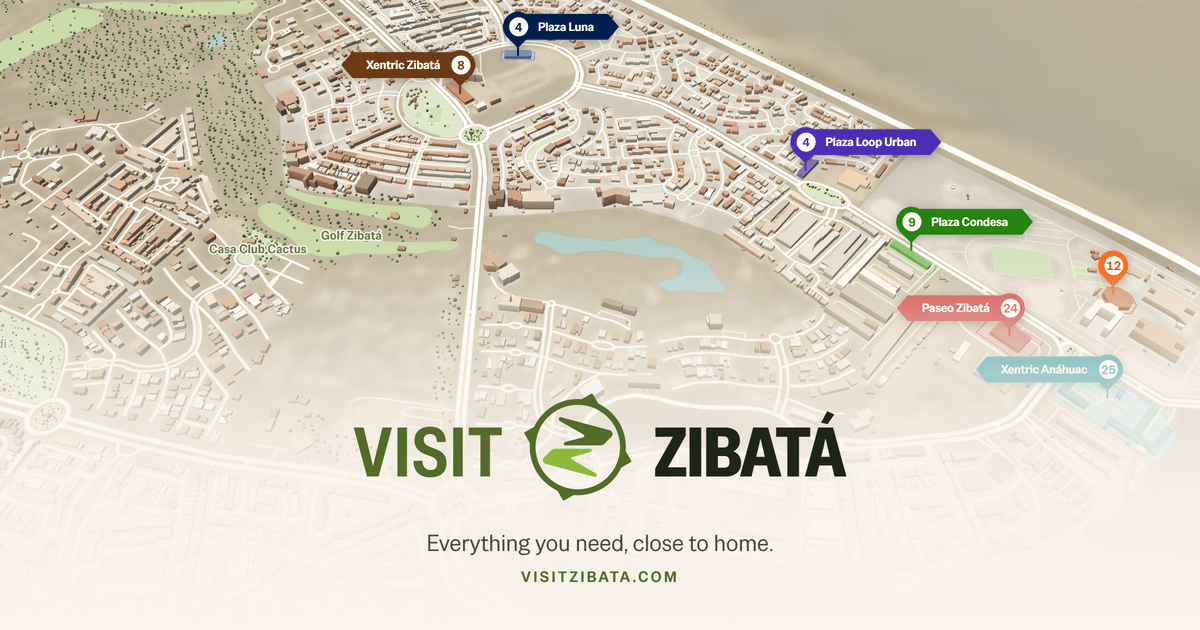
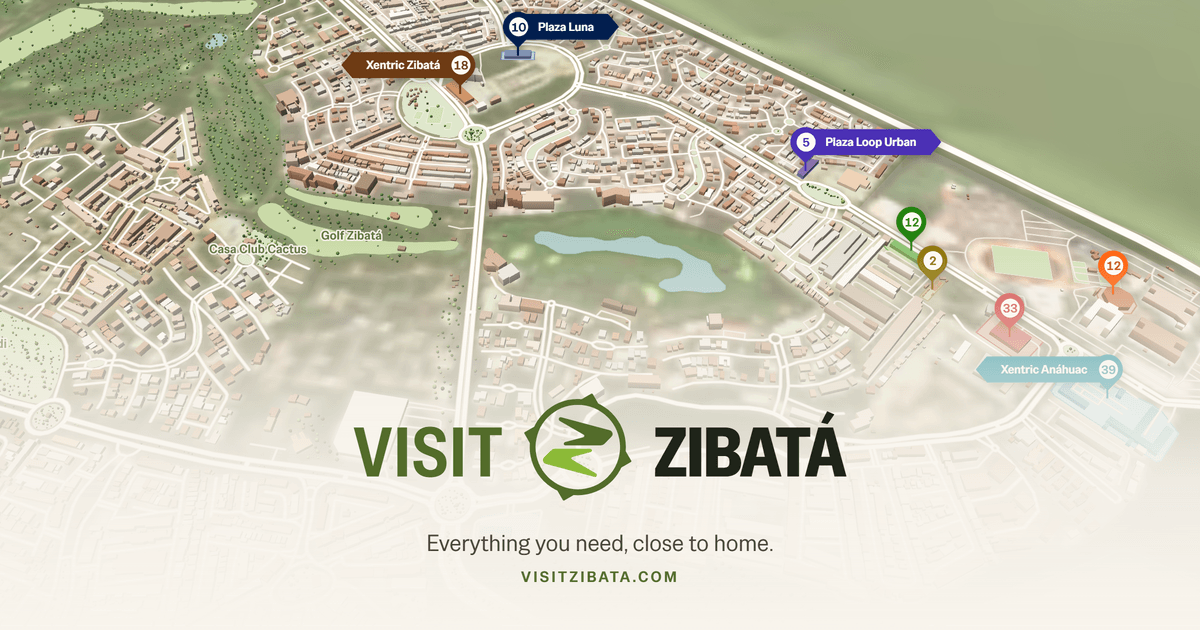
Mapa: suelo verde salvia en vez de arena (#214)
* Mapa: suelo verde salvia en vez de arena (contexto, relieve, suelo y mapa de respaldo)

* Manifiesto: bytes y hash del nuevo contexto.webp

* Imagen social y tutorial regenerados con el mapa verde

diff --git a/src/features/map/style/layers/realismo.ts b/src/features/map/style/layers/realismo.ts
@@ -29,7 +29,7 @@ const ATTRIBUTION = {
 }
 
 export const realismoTheme = {
-  groundOutside: '#d9cdb6',
+  groundOutside: '#c0d09f',
   groundZibata: '#e6dac4',
   boundaryEdge: '#cdbfa7',
   road: '#f3ecdd',
@@ -94,7 +94,7 @@ export function realismoSources(
   return sources
 }
 
-/** Mete el relieve y el suelo en el orden del terreno y repinta el fondo con el tono cálido del realismo. */
+/** Mete el relieve y el suelo en el orden del terreno y repinta el fondo con el verde salvia del realismo. */
 export function withRealismoGround(ground: LayerSpecification[]): LayerSpecification[] {
   const layers: LayerSpecification[] = []
   for (const layer of ground) {
@@ -111,13 +111,13 @@ export function withRealismoGround(ground: LayerSpecification[]): LayerSpecifica
               ['linear'],
               ['elevation'],
               1930,
-              '#efe6d2',
+              '#dae4bf',
               2060,
-              '#e3d6b8',
+              '#c6d2a1',
               2200,
-              '#cdbf9a',
+              '#a8bc81',
               2320,
-              '#b3a483',
+              '#8ca268',
             ] as ExpressionSpecification,
           },
         },
@@ -128,9 +128,9 @@ export function withRealismoGround(ground: LayerSpecification[]): LayerSpecifica
           paint: {
             'hillshade-exaggeration': 0.6,
             'hillshade-illumination-direction': 225,
-            'hillshade-shadow-color': '#6e5a3c',
-            'hillshade-highlight-color': '#fff1d6',
-            'hillshade-accent-color': '#8b7552',
+            'hillshade-shadow-color': '#475a32',
+            'hillshade-highlight-color': '#f4f5d5',
+            'hillshade-accent-color': '#657b46',
           },
         },
       )
@@ -141,8 +141,8 @@ export function withRealismoGround(ground: LayerSpecification[]): LayerSpecifica
         type: 'raster',
         source: SOURCE.soil,
         paint: {
-          'raster-opacity': 0.18,
-          'raster-saturation': -0.6,
+          'raster-opacity': 0.55,
+          'raster-saturation': 0.2,
           'raster-contrast': -0.05,
           'raster-brightness-min': 0.15,
         },

diff --git a/scripts/map/realismo/build-realismo.ts b/scripts/map/realismo/build-realismo.ts
@@ -113,14 +113,14 @@ async function construirSuelo(): Promise<{ coordenadas: [number, number][]; byte
 const TESELA = 512
 type Rgb = [number, number, number]
 type Parada = [number, Rgb]
-const BG: Rgb = [217, 205, 182]
-/** Tinte por altitud (m): del crema claro de la meseta al pardo de las lomas. */
+const BG: Rgb = [192, 208, 159]
+/** Tinte por altitud (m): del verde pálido de la meseta al verde monte de las lomas (antes crema y pardo, que se leía como desierto). */
 const RAMPA: Parada[] = [
-  [1900, [239, 230, 210]],
-  [2060, [227, 214, 184]],
-  [2200, [205, 191, 154]],
-  [2400, [179, 164, 131]],
-  [3400, [143, 130, 103]],
+  [1900, [220, 229, 191]],
+  [2060, [198, 213, 159]],
+  [2200, [162, 184, 116]],
+  [2400, [125, 149, 89]],
+  [3400, [95, 119, 70]],
 ]
 const tinte = (altitud: number): Rgb => {
   if (altitud <= (RAMPA[0] as Parada)[0]) return (RAMPA[0] as Parada)[1]
@@ -217,8 +217,8 @@ async function construirContexto(): Promise<{ coordenadas: [number, number][]; b
       const f = Math.max(0.93, Math.min(1.06, 1 + 0.6 * ((sombra[j * n + i] ?? 0) - plano)))
       const o = (j * n + i) * 4
       for (const k of [0, 1, 2] as const) {
-        const apagado = BG[k] * 0.84 + (gris + (rgb[k] - gris) * 0.35) * 0.16
-        salida4[o + k] = Math.min(255, (apagado * 0.8 + t[k] * 0.2) * f)
+        const apagado = BG[k] * 0.62 + (gris + (rgb[k] - gris) * 0.55) * 0.38
+        salida4[o + k] = Math.min(255, (apagado * 0.53 + t[k] * 0.47) * f)
       }
       salida4[o + 3] = 255
     }

diff --git a/src/features/map/style/theme.ts b/src/features/map/style/theme.ts
@@ -1,12 +1,12 @@
 /**
  * Paleta cartográfica. Deriva de la identidad (#D1C3B0 arena, #536C2A olivo, #8CBA37 lima):
- * suelo cálido tipo maqueta, verdes suaves que no compiten con las plazas y plazas en verde de marca.
+ * suelo verde salvia tipo maqueta (el monte que rodea Zibatá), verdes suaves que no compiten con las plazas y plazas en verde de marca.
  */
 export const mapTheme = {
-  groundOutside: '#e2d9c9',
-  groundZibata: '#eee6d9',
-  outsideVeil: '#e2d9c9',
-  boundaryEdge: '#cdbfa7',
+  groundOutside: '#cfdab4',
+  groundZibata: '#e4e8d2',
+  outsideVeil: '#cfdab4',
+  boundaryEdge: '#b4c394',
 
   landuse: {
     residential: '#ebe3d5',
